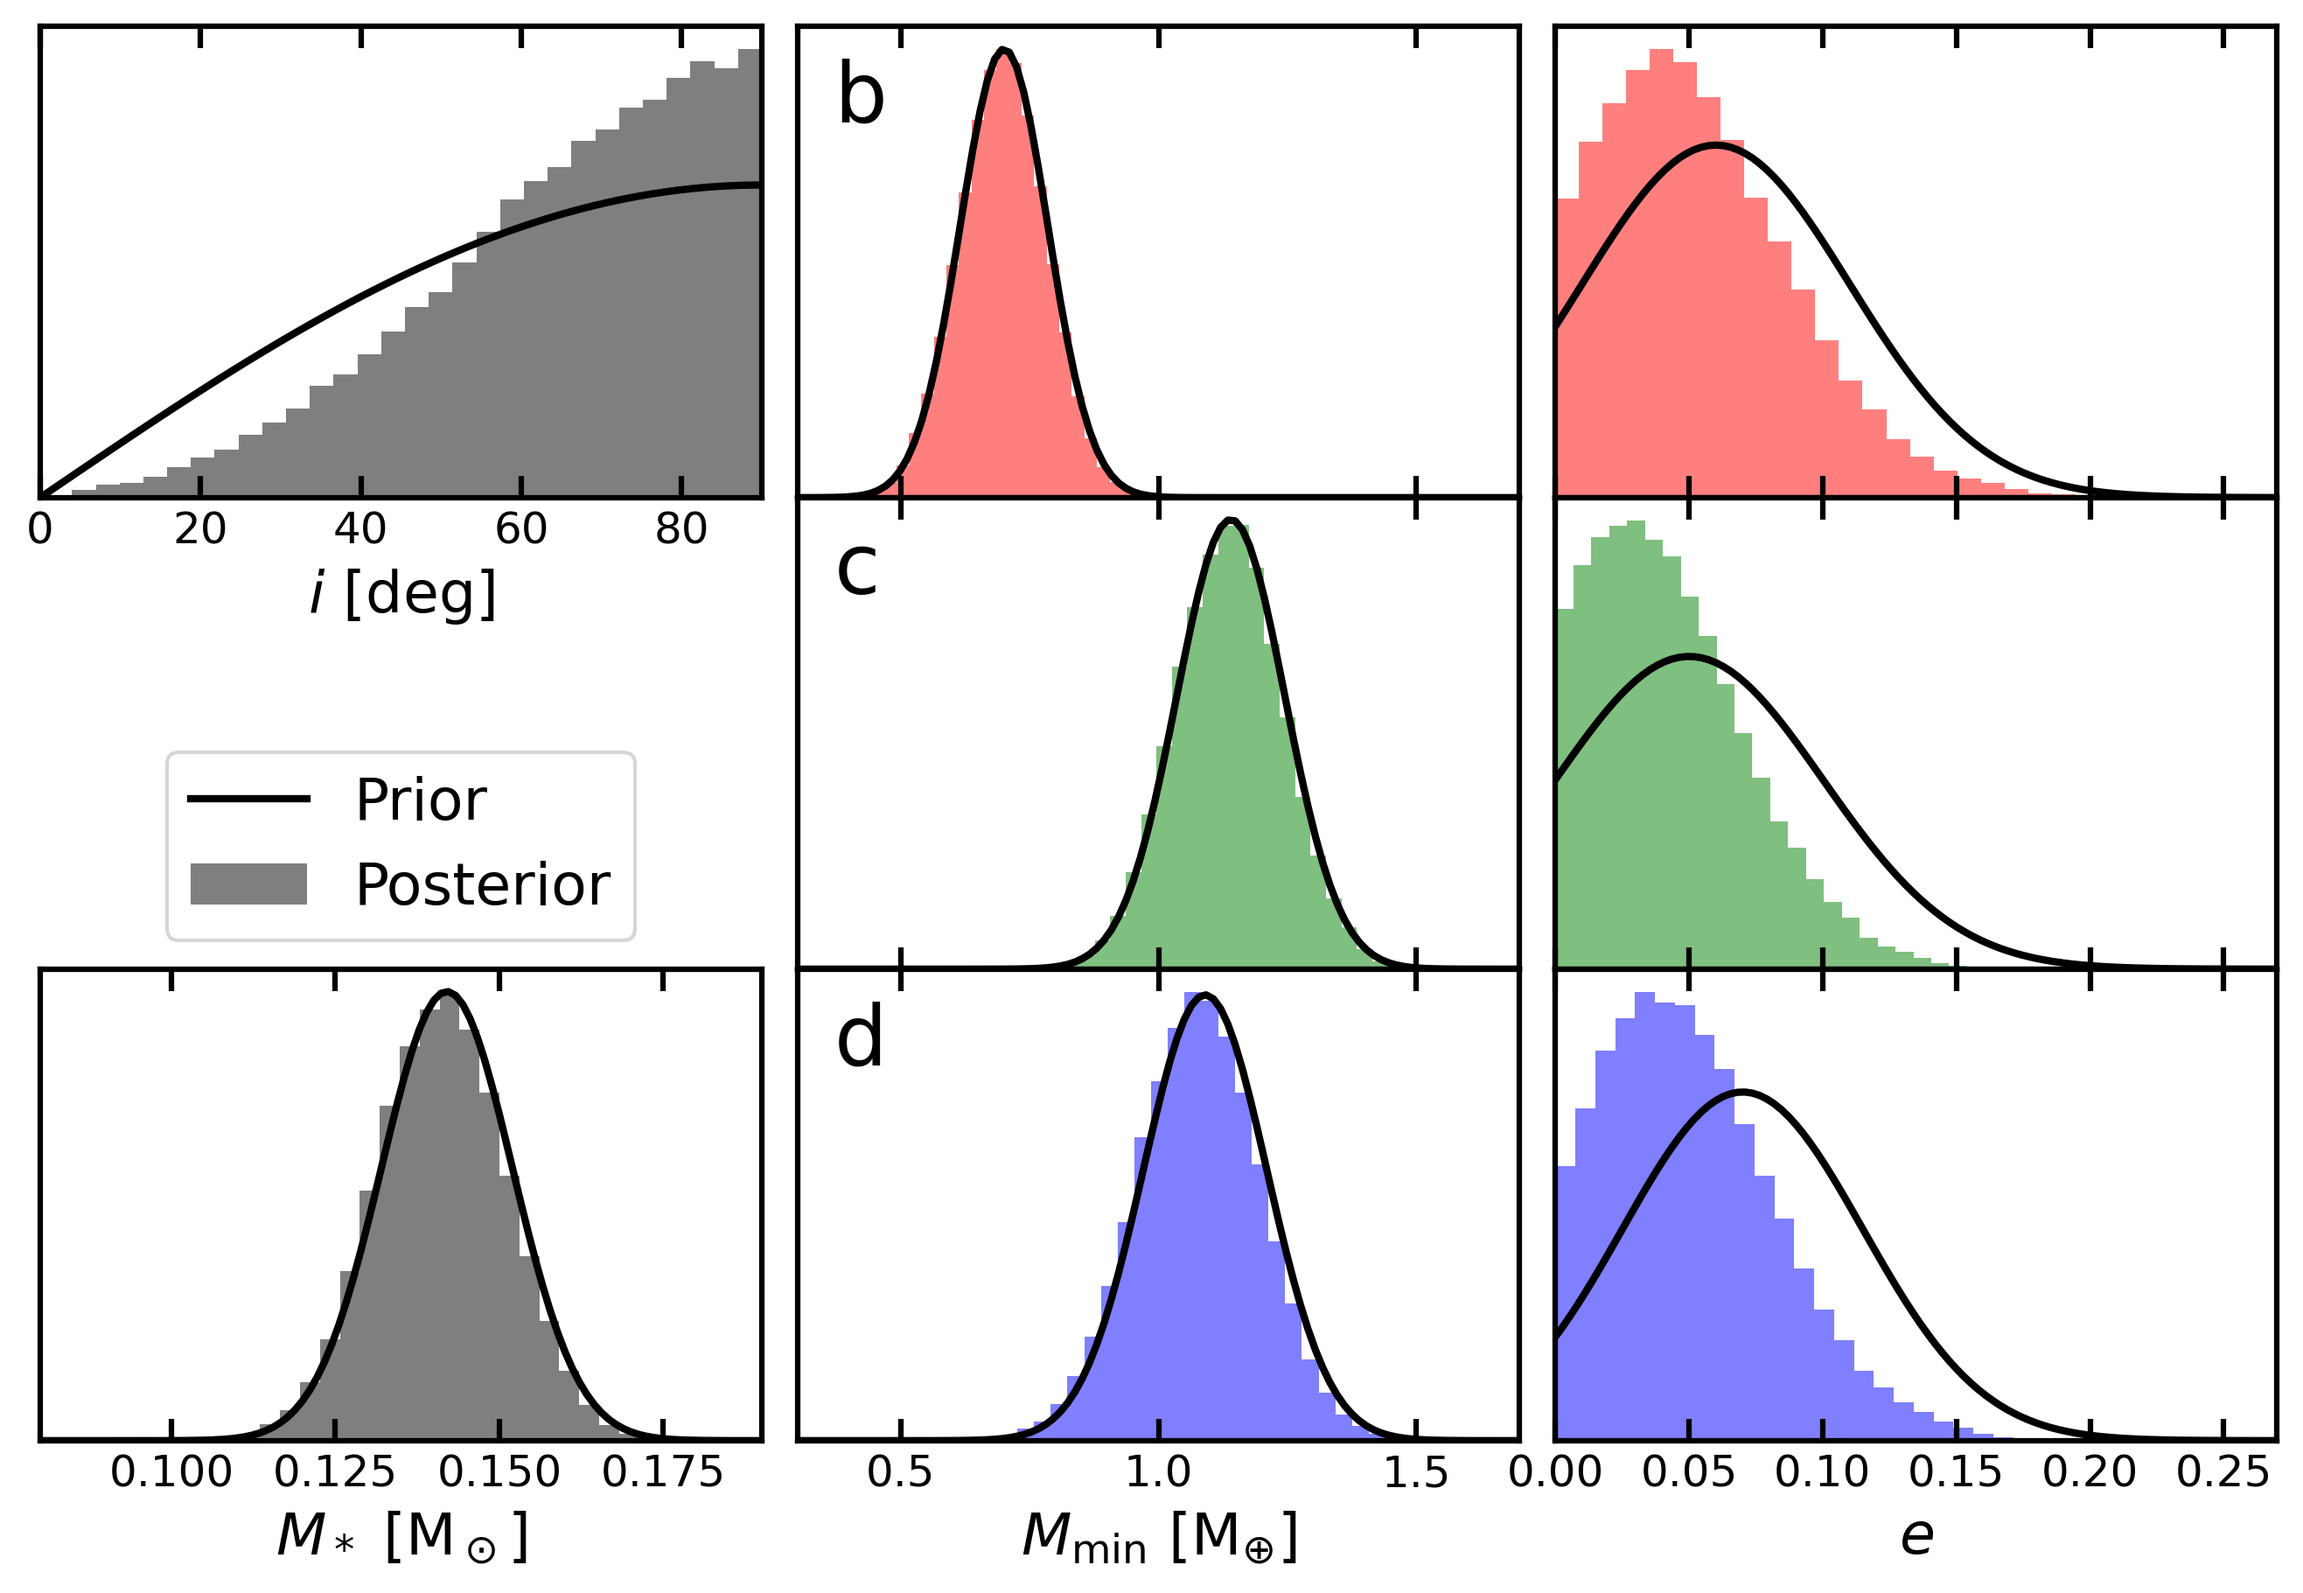
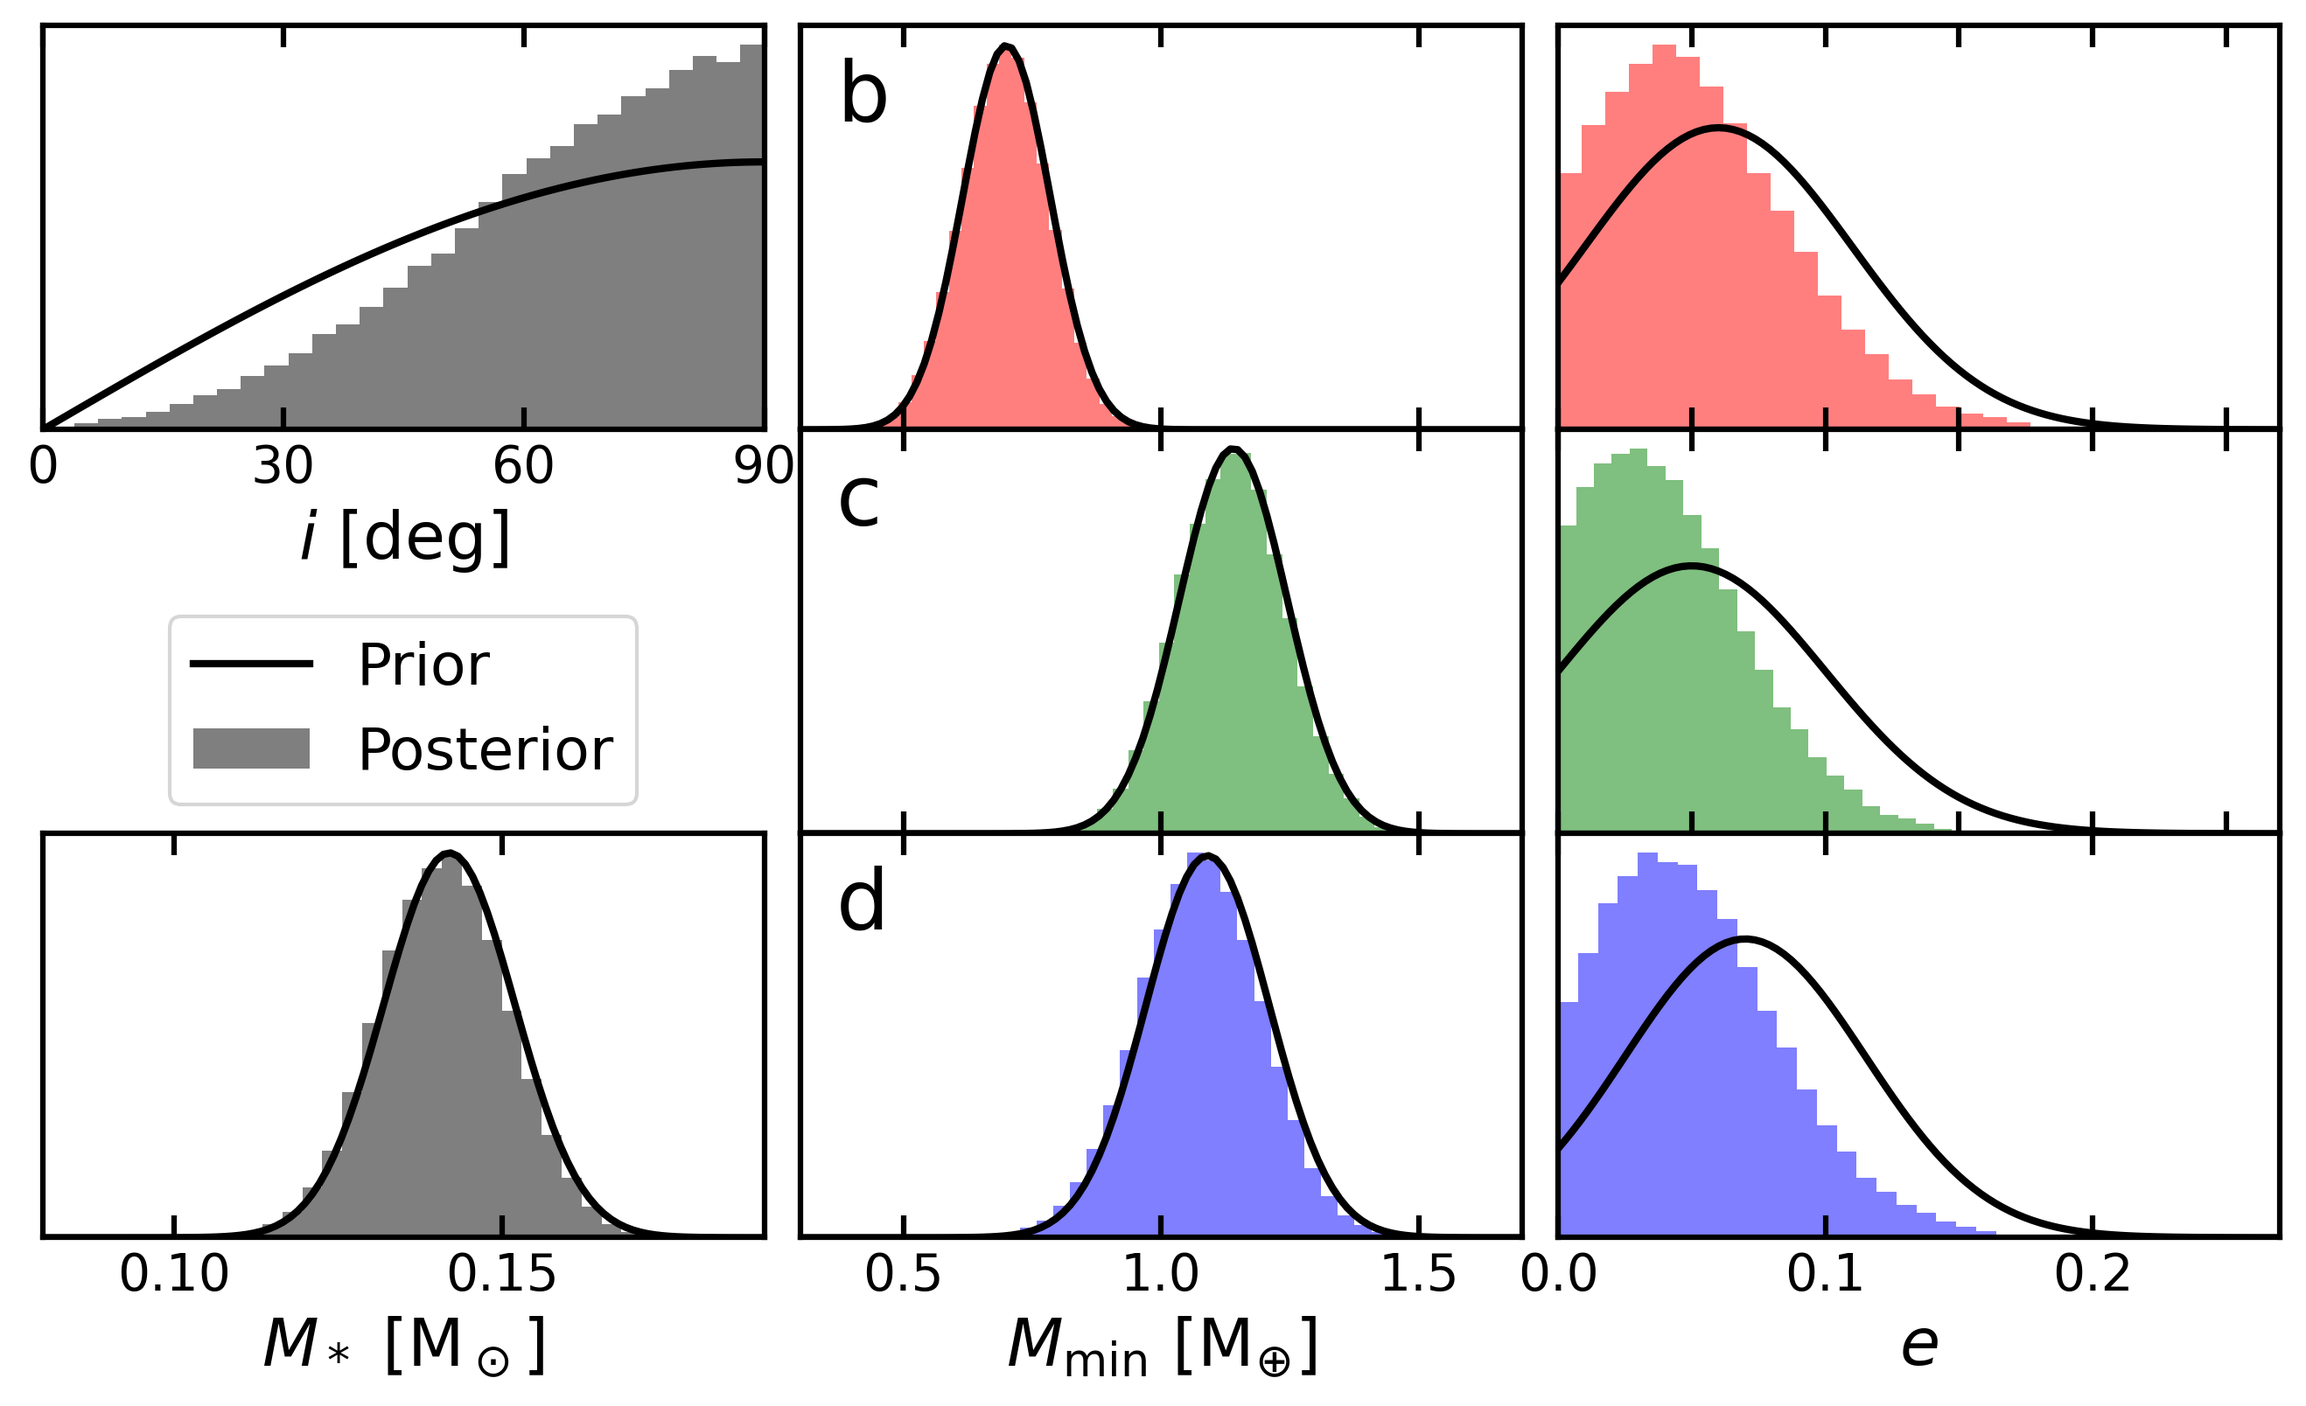
Tweak posteriors figure

diff --git a/scripts/figs/plot_posteriors.py b/scripts/figs/plot_posteriors.py
@@ -45,20 +45,19 @@ def main() -> None:
     # ========
     # Plotting
     fg, axs = plt.subplots(
-        3, 3, figsize=(11, 7), gridspec_kw={"wspace": 0.05, "hspace": 0.0}
+        3, 3, figsize=(11, 6), gridspec_kw={"wspace": 0.05, "hspace": 0.0}
     )
-    xlabelsize = 16
+    xlabelsize = 18
 
     # Inclination panel
     ax = axs[0, 0]
     cos_i_samples = samples[burn_in:, :, 0].flatten()
     inclination_samples = np.degrees(np.arccos(cos_i_samples))
-    ax.hist(
-        inclination_samples, bins=30, color="k", density=True, alpha=0.5
-    )
+    ax.hist(inclination_samples, bins=30, color="k", density=True, alpha=0.5)
     x = np.linspace(0, 90, 100)
     ax.plot(x, np.sin(np.radians(x)) * np.pi / 180, c="k", lw=2)
     ax.set_xlim(x[0], x[-1])
+    ax.set_xticks([0, 30, 60, 90])
     ax.set_xlabel("$i$ [deg]", fontsize=xlabelsize)
     ax.set_yticks([])
 
@@ -97,7 +96,7 @@ def main() -> None:
         if i < 2:
             ax.set_xticklabels([])
         ax.set_title(
-            planets[i], y=0.75, x=0.05, horizontalalignment="left", fontsize=23
+            planets[i], y=0.71, x=0.05, horizontalalignment="left", fontsize=23
         )
     ax.set_xlabel("$M_{\\rm min}$ [M$_{\\oplus}$]", fontsize=xlabelsize)
 
@@ -119,10 +118,11 @@ def main() -> None:
         if i < 2:
             ax.set_xticklabels([])
     ax.set_xlabel("$e$", fontsize=xlabelsize)
+    ax.set_xticks([0.0, 0.1, 0.2])
 
     # Neatening
     for ax in axs.flatten():
-        ax.tick_params(length=6, labelsize=12, width=1.5, direction="in", top=True)
+        ax.tick_params(length=6, labelsize=14, width=1.5, direction="in", top=True)
         ax.set_yticks([])
         for spine in ax.spines.values():
             spine.set_linewidth(1.5)
